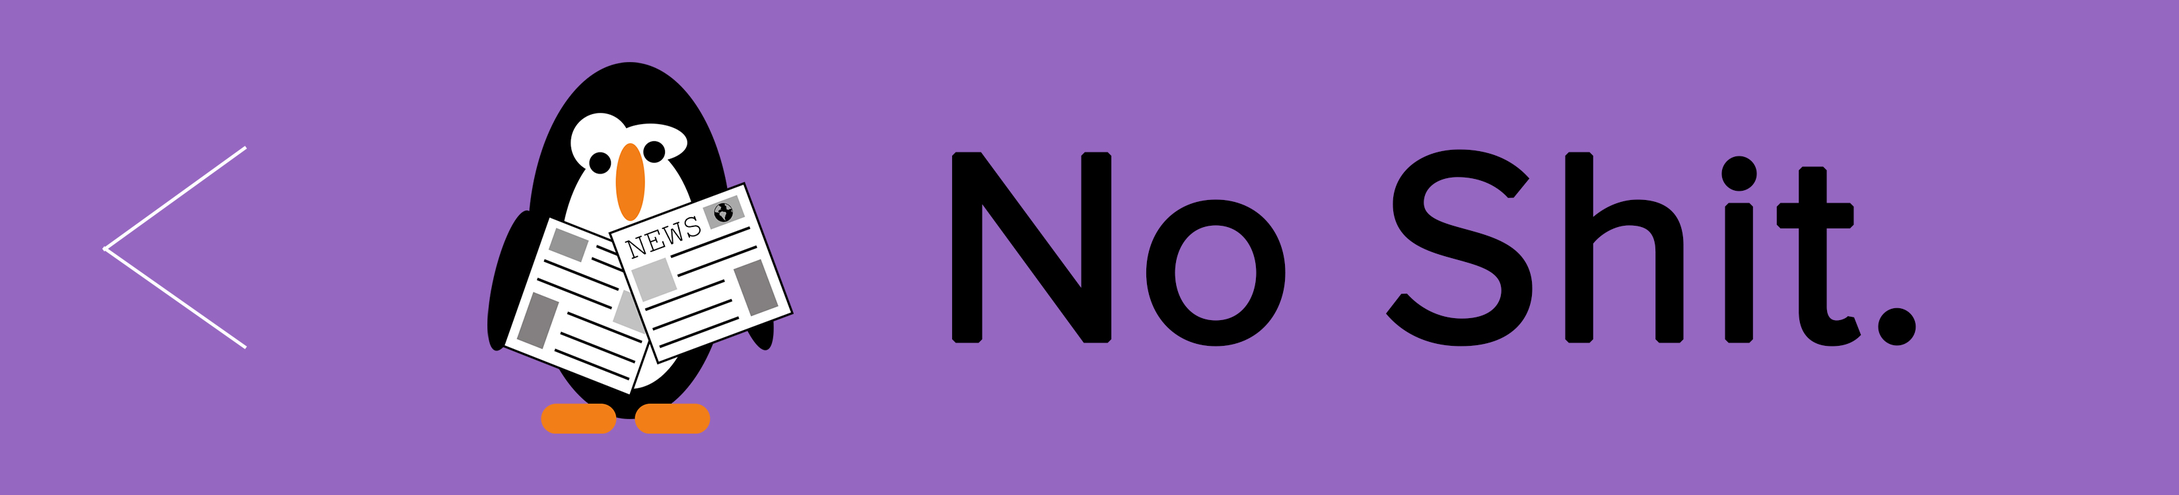
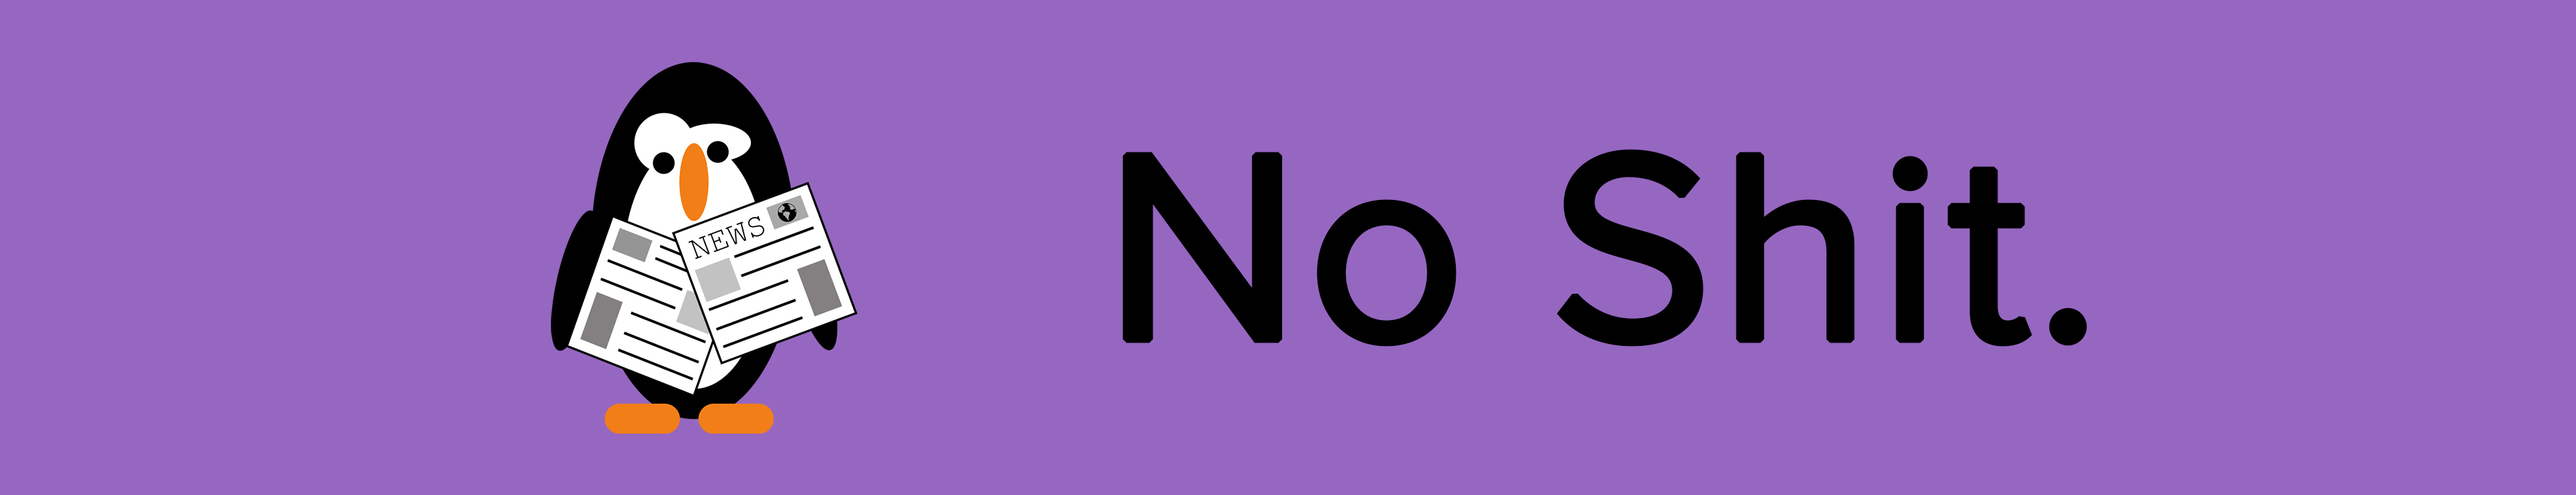
UPDATES

Changed region(s): [[0.437, 0.3067, 0.9052, 0.7053], [0.1873, 0.1227, 0.3745, 0.8893]]

diff --git a/friends.html b/friends.html
@@ -28,28 +28,37 @@
 <body>
 
 	<header>
+		<img class="logotype" src="ui/images/header4.jpg" alt="Evothings" /> 
 		<button class="back" onclick="history.back()">
 			<img src="ui/images/arrow-left.svg" />
 		</button>
 
-		<img class="logotype" src="ui/images/header4.jpg" alt="Evothings" /> 
+
 	</header> 
 
 	<h2 style="font-size: 40px"> <center> View Scooby's Friends </center> </h2> 
+	<p style= "font-size : 5px"> <center> Check out the map to see Scooby's visitors. </center> </p>
 
-	<!-- Image of the world here --> 
-	<div>
-    <ul class="columns" data-columns="2">
-        <li>A</li>
-        <li>B</li>
-        <li>C</li>
-        <li>D</li>
-        <li>E</li>
-        <li>F</li>
-        <li>G</li>
-    </ul>
-</div>
-
+	 <style>
+      #map-canvas {
+        width: 275px;
+        height: 280px;
+      }
+    </style>
+    <script src="https://maps.googleapis.com/maps/api/js"></script>
+    <script>
+      function initialize() {
+        var mapCanvas = document.getElementById('map-canvas');
+        var mapOptions = {
+          center: new google.maps.LatLng(44.5403, -78.5463),
+          zoom: 8,
+          mapTypeId: google.maps.MapTypeId.ROADMAP
+        }
+        var map = new google.maps.Map(mapCanvas, mapOptions)
+      }
+      google.maps.event.addDomListener(window, 'load', initialize);
+    </script>	
+    <div id="map-canvas"></div>
 </body>
 
 </html>

diff --git a/screen2.html b/screen2.html
@@ -44,12 +44,13 @@
 <body>
 
 	<header>
+		<img class="logotype" src="ui/images/header4.jpg" alt="Evothings" /> 
 		<button class="back" onclick="history.back()">
 			<img src="ui/images/arrow-left.svg" />
 		</button>
 
-		 <img class="logotype" src="ui/images/header4.jpg" alt="Evothings" /> 
-
+		 <!-- <img class="logotype" src="ui/images/header4.jpg" alt="Evothings" /> -->
+ 
 		<!--<button class="menu" onclick=""><img src="ui/images/menu.svg" /></button>-->
 	</header>
 

diff --git a/greenTrashcan.html b/greenTrashcan.html
@@ -28,11 +28,13 @@
 <body>
 
 	<header>
+
+		<img class="logotype" src="ui/images/header4.jpg" alt="Evothings" /> 
 		<button class="back" onclick="history.back()">
 			<img src="ui/images/arrow-left.svg" />
 		</button>
 
-		<img class="logotype" src="ui/images/header4.jpg" alt="Evothings" /> 
+		
 		<!--<button class="menu" onclick=""><img src="ui/images/menu.svg" /></button>-->
 	</header>
 	<h2 style = "font-size: 30px"> <center> Scooby Spotlight </center> </h2>

diff --git a/index.html b/index.html
@@ -28,11 +28,13 @@
 <body>
 
 	<header>
+
+		<img class="logotype" src="ui/images/sherlock3.jpg" alt="Evothings" /> 
 		<button class="back" onclick="history.back()">
 			<img src="ui/images/arrow-left.svg" />
 		</button>
 
-		<img class="logotype" src="ui/images/sherlock3.jpg" alt="Evothings" /> 
+		
 
 		<!--<button class="menu" onclick=""><img src="ui/images/menu.svg" /></button>-->
 	</header>

diff --git a/about.html b/about.html
@@ -28,11 +28,13 @@
 <body>
 
 	<header>
+
+		<img class="logotype" src="ui/images/header4.jpg" alt="Evothings" /> 
+
 		<button class="back" onclick="history.back()">
 			<img src="ui/images/arrow-left.svg" />
 		</button>
 
-		<img class="logotype" src="ui/images/header4.jpg" alt="Evothings" /> 
 
 		<!--<button class="menu" onclick=""><img src="ui/images/menu.svg" /></button>-->
 	</header>

diff --git a/trashcanView.html b/trashcanView.html
@@ -28,11 +28,12 @@
 <body>
 
 	<header>
+		<img class="logotype" src="ui/images/header4.jpg" alt="Evothings" /> 
 		<button class="back" onclick="history.back()">
 			<img src="ui/images/arrow-left.svg" />
 		</button>
 
-		<img class="logotype" src="ui/images/header4.jpg" alt="Evothings" /> 
+		
 
 		<!--<button class="menu" onclick=""><img src="ui/images/menu.svg" /></button>-->
 	</header>

diff --git a/blueTrashcan.html b/blueTrashcan.html
@@ -28,11 +28,12 @@
 <body>
 
 	<header>
+
+		<img class="logotype" src="ui/images/header4.jpg" alt="Evothings" /> 
 		<button class="back" onclick="history.back()">
 			<img src="ui/images/arrow-left.svg" />
 		</button>
 
-		<img class="logotype" src="ui/images/header4.jpg" alt="Evothings" /> 
 
 		<!--<button class="menu" onclick=""><img src="ui/images/menu.svg" /></button>-->
 	</header>

diff --git a/ui/css/evothings-app.css b/ui/css/evothings-app.css
@@ -72,7 +72,7 @@ header {
 	vertical-align: middle;
 
 	/* background: #f3f3f3; */ 
-	background: #2E9AFE;
+	 background: #9667c1; 
 
 	z-index: 1000;
 }
